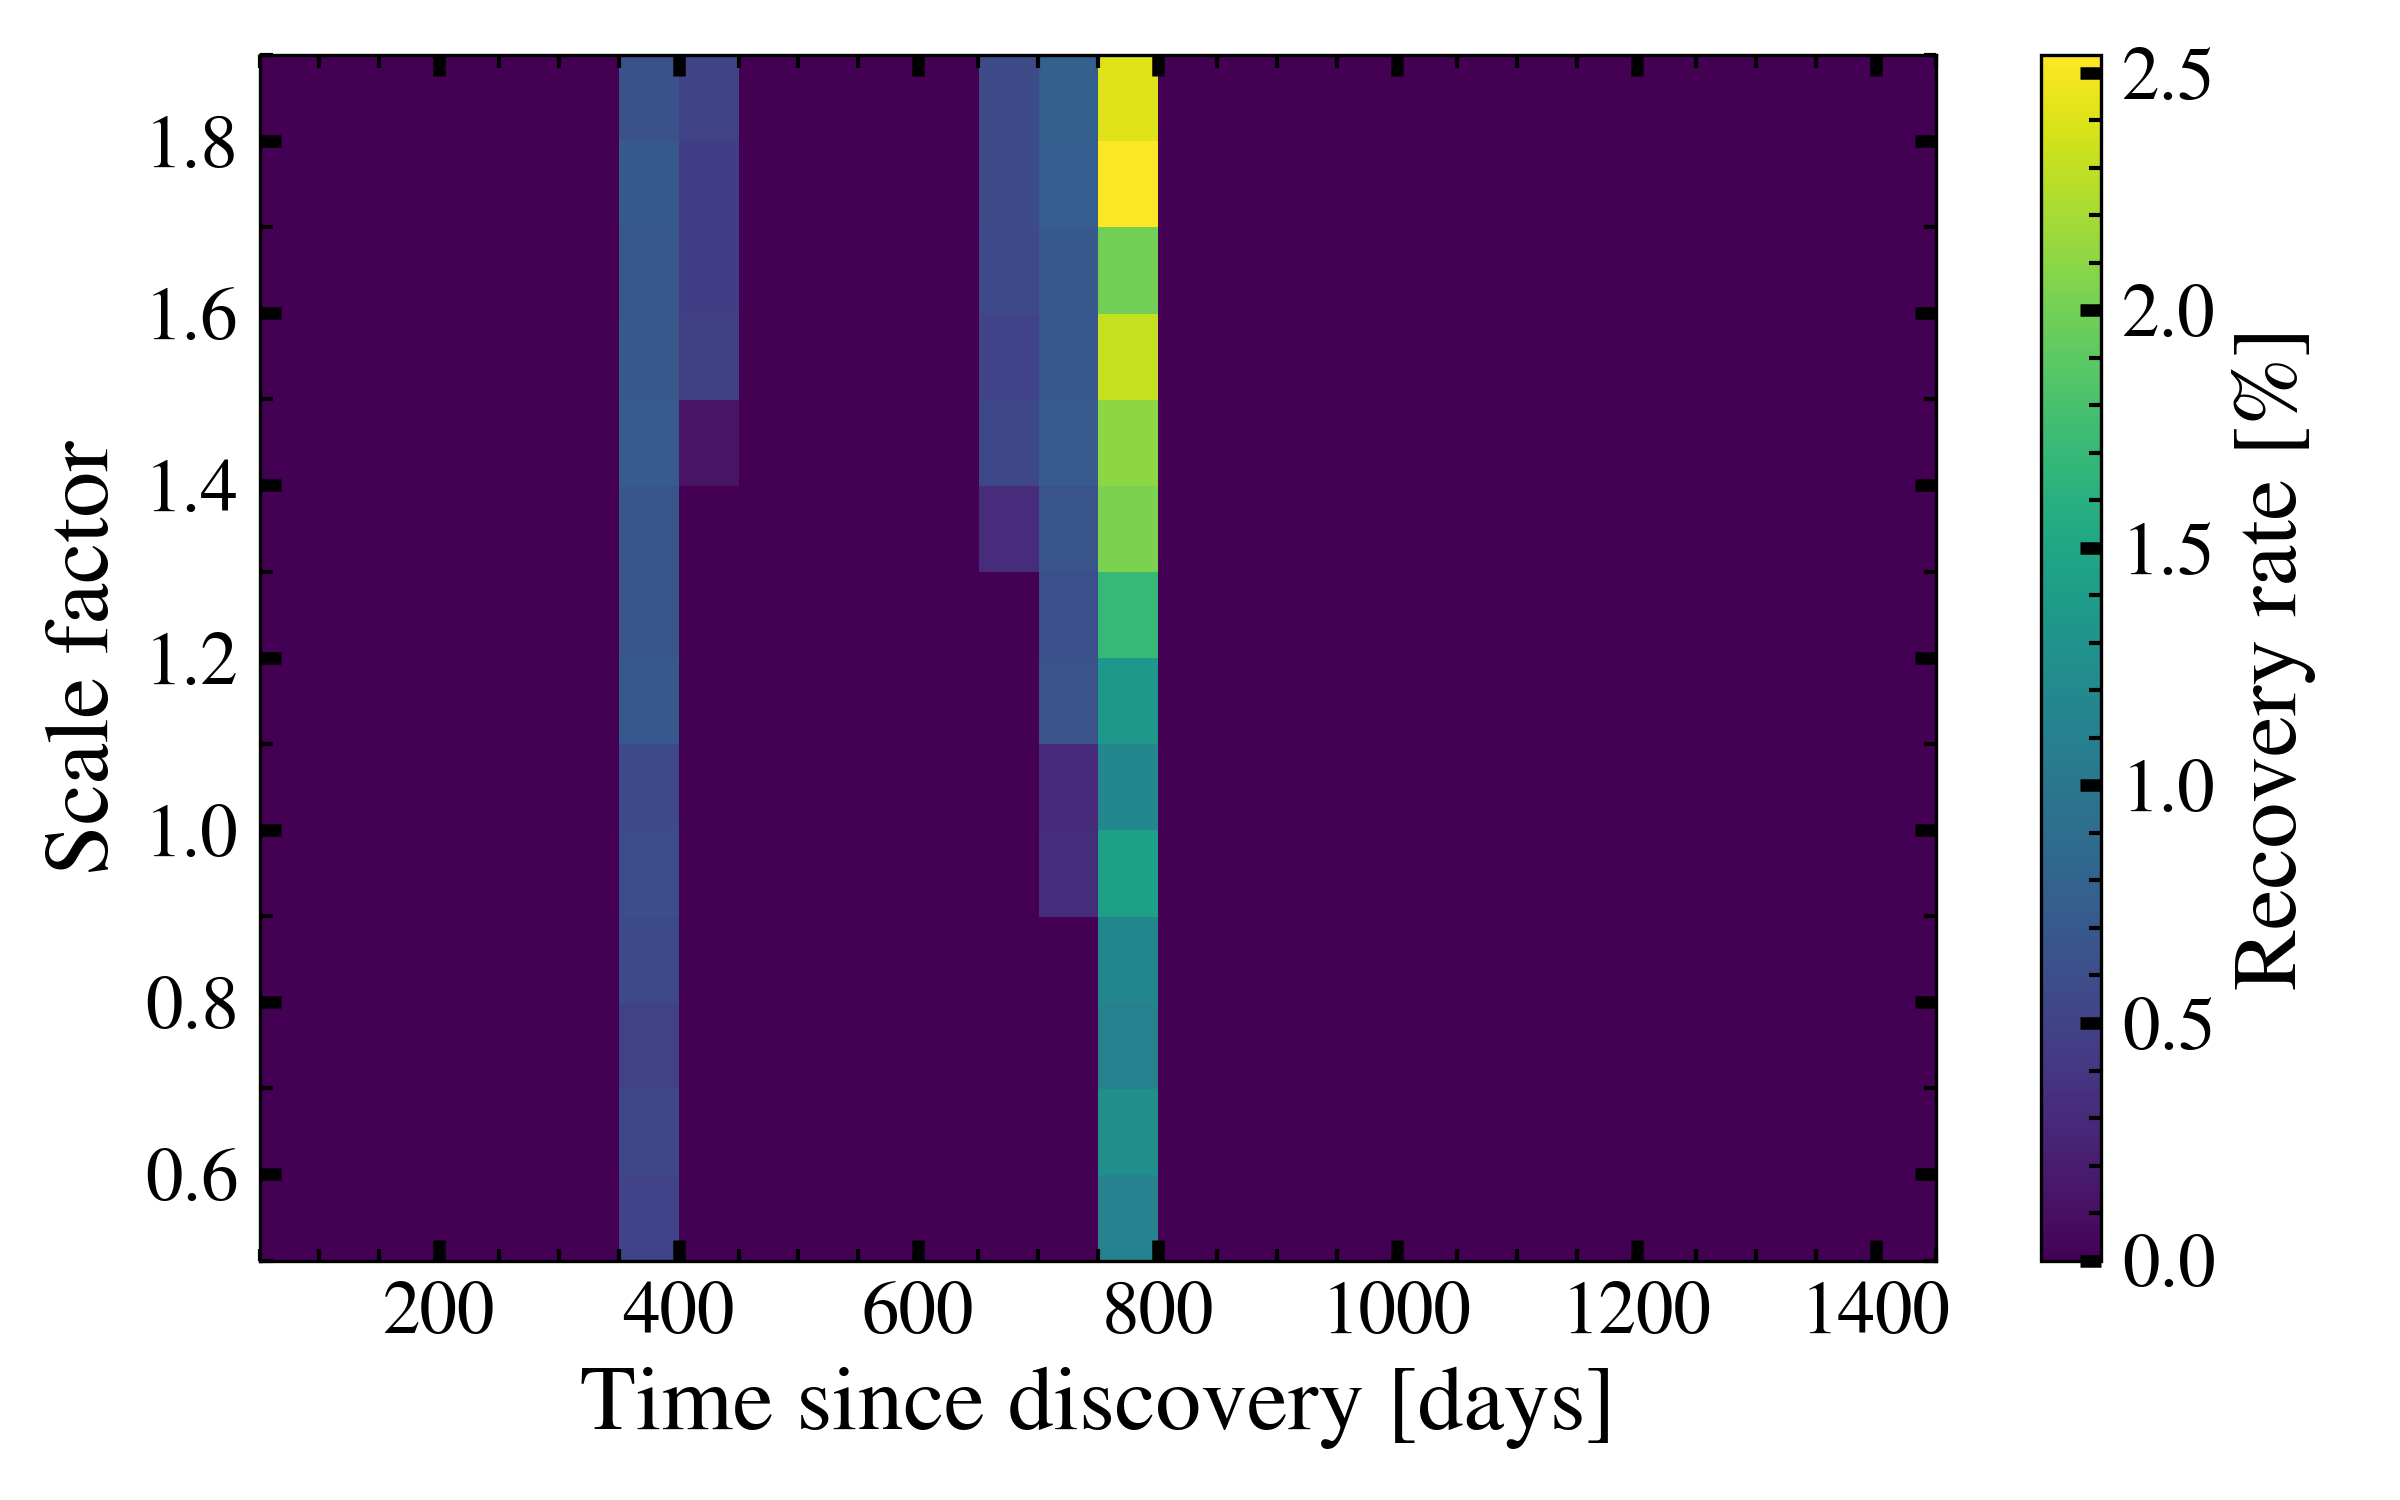
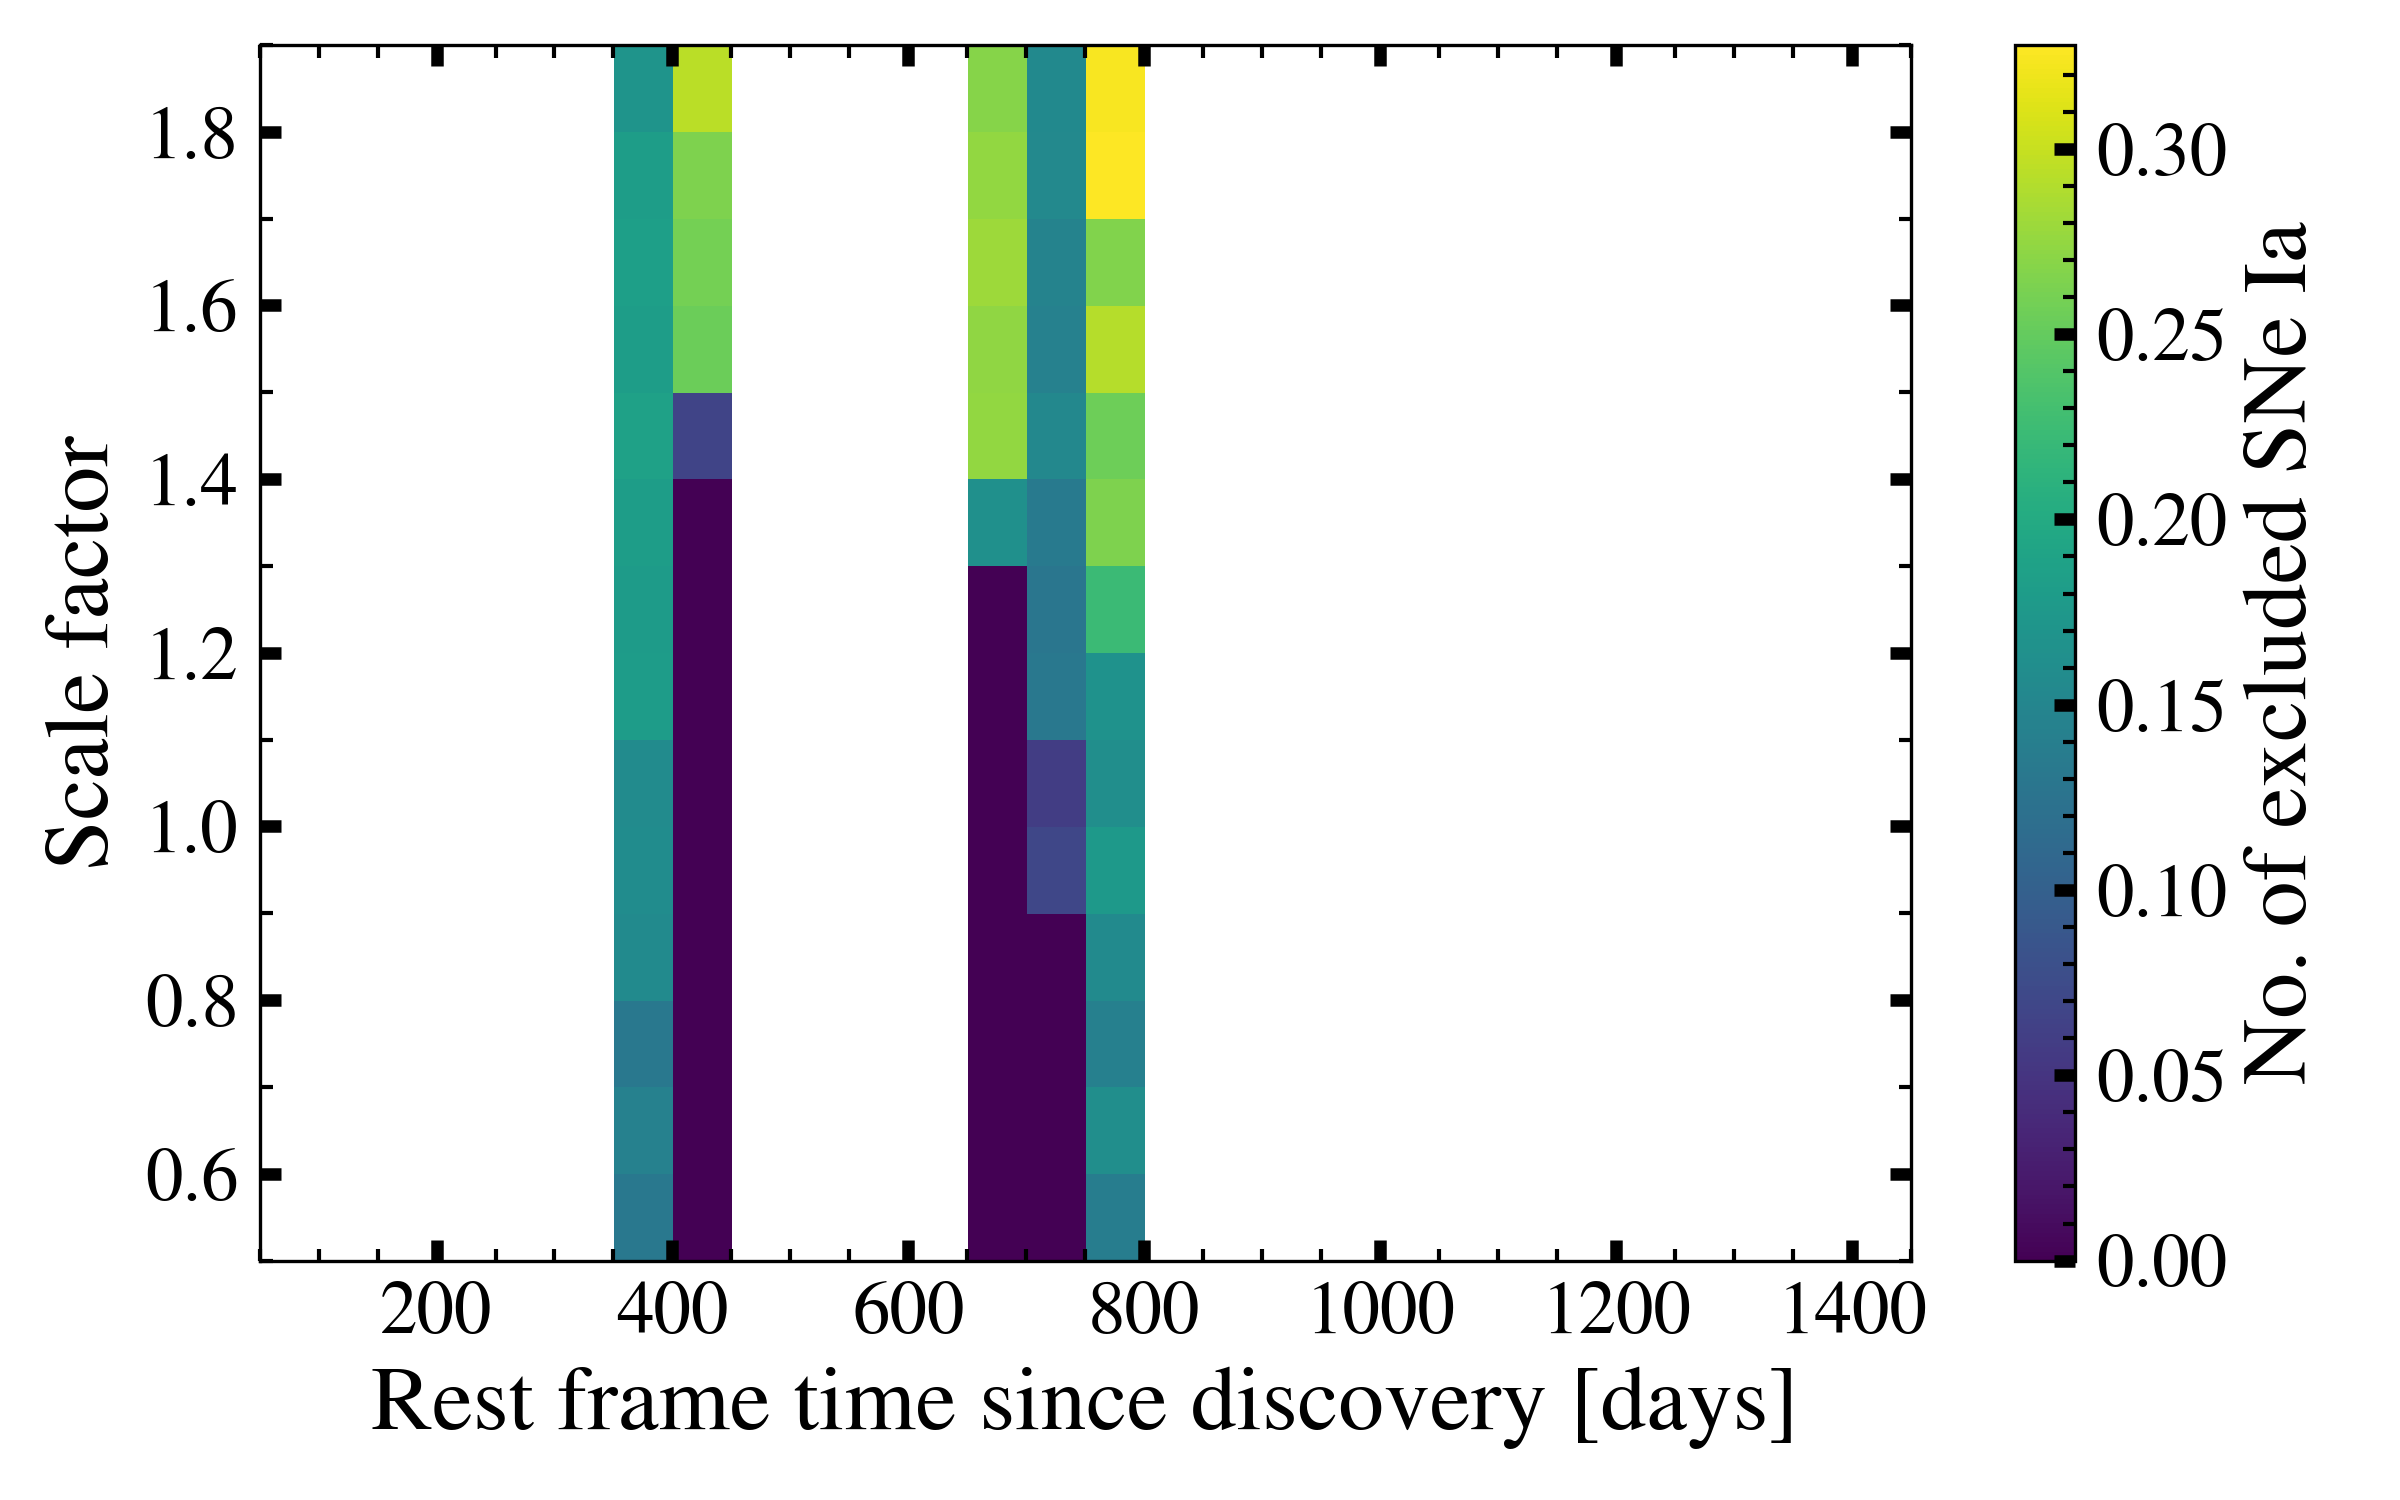
switched to counting nondetections

diff --git a/injection_recovery.py b/injection_recovery.py
@@ -2,6 +2,7 @@ from tqdm import tqdm
 import itertools
 from multiprocessing import Pool
 from functools import partial
+from functools import reduce
 import matplotlib.pyplot as plt
 from matplotlib.ticker import MultipleLocator
 from corner import corner
@@ -28,16 +29,16 @@ def main(iterations, overwrite=False, tstart_max=1000, scale_min=0.5,
     if overwrite or not output_file.is_file():
         recovered_times = run_ir(iterations, supernovae, 0, tstart_max, 
                 scale_min, scale_max, bin_width, bin_height, t_max, output_file)
-        rate_hist = get_recovery_rate(recovered_times, bin_width, t_max, 
+        count_hist = count_nondetections(recovered_times, bin_width, t_max, 
                 bin_height, scale_min, scale_max)
-        output_csv(rate_hist, output_file)
+        output_csv(count_hist, output_file)
     else:
-        rate_hist = pd.read_csv(output_file, index_col=0)
+        count_hist = pd.read_csv(output_file, index_col=0)
 
-    plot_recovery_rate(rate_hist, show=True)
+    plot_nondetections(count_hist, show=True)
 
 
-def plot_recovery_rate(rate_hist, show=False):
+def plot_nondetections(rate_hist, show=False):
     """Plot 2D histogram of recovery rate by time since discovery and scale factor."""
 
     # Flip y-axis
@@ -52,12 +53,12 @@ def plot_recovery_rate(rate_hist, show=False):
 
     # Plot
     fig, ax = plt.subplots()
-    im = ax.imshow(rate_hist*100, aspect='auto', origin='lower', extent=extent)
+    im = ax.imshow(rate_hist, aspect='auto', origin='lower', extent=extent)
     ax.xaxis.set_minor_locator(MultipleLocator(bin_width))
     ax.yaxis.set_minor_locator(MultipleLocator(bin_height))
-    ax.set_xlabel('Time since discovery [days]')
+    ax.set_xlabel('Rest frame time since discovery [days]')
     ax.set_ylabel('Scale factor')
-    plt.colorbar(im, label='Recovery rate [%]')
+    plt.colorbar(im, label='No. of excluded SNe Ia')
     fig.tight_layout()
     plt.savefig(Path('out/recovery.png'), dpi=300)
     if show:
@@ -66,14 +67,17 @@ def plot_recovery_rate(rate_hist, show=False):
         plt.close()
 
 
-def get_recovery_rate(recovered_times, bin_width, x_max, bin_height, y_min, y_max):
-    """Generate 2D histogram of recovery rate by time and scale factor
+def count_nondetections(recovered_times, bin_width, x_max, bin_height, y_min, y_max):
+    """Generate 2D histogram of nondetection counts by time and scale factor
     Inputs:
         recovered_times: list of dicts
         bin_width: bin width in heatmap plot, in days
+        x_max: max value on x-axis
         bin_height: bin height in heatmap plot, in scale factor fraction
+        y_min: minimum value on y-axis
+        y_max: max value on y-axis
     Output:
-        rate_hist: 2D histogram of recovery rates, DataFrame
+        count_sum: 2D histogram of nondetection counts
     """
     
     print('\nBinning recovery rates...')
@@ -81,28 +85,46 @@ def get_recovery_rate(recovered_times, bin_width, x_max, bin_height, y_min, y_ma
     recovered = []
     total = []
     for rec_dict in tqdm(recovered_times):
-        recovered += [[time, rec_dict['scale']] for time in rec_dict['recovered']]
-        total += [[time, rec_dict['scale']] for time in rec_dict['all']]
+        recovered += [[rec_dict['sn'], time, rec_dict['scale']] for time in rec_dict['recovered']]
+        total += [[rec_dict['sn'], time, rec_dict['scale']] for time in rec_dict['all']]
 
     recovered = np.array(recovered)
     total = np.array(total)
 
-    # 2D histogram
+    # Bin edges
     x_edges = np.arange(RECOV_MIN, x_max, bin_width)
     y_edges = np.arange(y_min, y_max, bin_height)
+
     # Dummy array if recovered is empty
     if recovered.shape == (0,):
-        recovered = np.array([[-1,-1]])
-    rec_hist = np.histogram2d(recovered[:,0], recovered[:,1], [x_edges, y_edges])[0]
-    total_hist = np.histogram2d(total[:,0], total[:,1], [x_edges, y_edges])[0]
-    # Calculate recovery rate
-    rate_hist = rec_hist / total_hist
-    # Transpose and convert to DataFrame with time increasing along the rows
-    # and scale height increasing down the columns. Column and index labels
-    # are the lower bound of each bin
-    rate_hist = pd.DataFrame(rate_hist.T, index=y_edges[:-1], columns=x_edges[:-1])
+        return pd.DataFrame(np.full((len(x_edges), len(y_edges)), 0), 
+                index=y_edges[:-1], columns=x_edges[:-1])
 
-    return rate_hist
+    # Count nondetections per supernova
+    counts = []
+    for sn_name in list(dict.fromkeys(recovered[:,0])):
+        # Select by sn name
+        sn_rec = recovered[recovered[:,0] == sn_name][:,1:].astype(float)
+        sn_tot = total[total[:,0] == sn_name][:,1:].astype(float)
+        # 2D histogram by t_delta_rest and scale
+        rec_hist = np.histogram2d(sn_rec[:,0], sn_rec[:,1], [x_edges, y_edges])[0]
+        tot_hist = np.histogram2d(sn_tot[:,0], sn_tot[:,1], [x_edges, y_edges])[0]
+        # Calculate recovery rate
+        rate_hist = rec_hist / tot_hist
+        # Transpose and convert to DataFrame with time increasing along the rows
+        # and scale height increasing down the columns. Column and index labels
+        # are the lower bound of each bin
+        rate_hist = pd.DataFrame(rate_hist.T, index=y_edges[:-1], columns=x_edges[:-1])
+        counts.append(rate_hist)
+
+    # Sum all histograms
+    count_sum = reduce(lambda x, y: x.add(y, fill_value=0), counts)
+    return count_sum
+
+
+def recovery_histogram(x_recovered, y_recovered, x_total, y_total, x_edges, y_edges):
+    """Generate histogram of recovery rate given x and y recovered/total values"""
+    pass
 
 
 def run_ir(iterations, supernovae, tstart_min, tstart_max, scale_min, scale_max,
@@ -141,21 +163,30 @@ def run_ir(iterations, supernovae, tstart_min, tstart_max, scale_min, scale_max,
             continue
 
         # Save to binary numpy file every 10 iterations (takes a long time)
-        if i % 10 == 0 and i >= 600:
+        if i % 10 == 0 and i != 0:
             print('Saving progress...')
             np.save(progress_file, np.array(recovered_times))
             print('Progress saved.')
 
         # Plot histogram every 50 iterations
         if i % 50 == 0 and i != 0:
-            rate_hist = get_recovery_rate(recovered_times, bin_width, t_max, 
+            rate_hist = count_nondetections(recovered_times, bin_width, t_max, 
                     bin_height, scale_min, scale_max)
             output_csv(rate_hist, output_file)
-            plot_recovery_rate(rate_hist, show=False)
+            plot_nondetections(rate_hist, show=False)
 
         # Ignore if light curve file doesn't exist
         lc_file = LC_DIR / sn2fname(sn_name, band)
         if not lc_file.is_file():
+            print('\nNo light curve file found for %s - %s [%s/%s]' % (sn_name, band, i+1, len(supernovae)))
+            recovered_times.append({
+                'sn': sn_name,
+                'band': band,
+                'tstart': -1,
+                'scale': -1,
+                'recovered': [],
+                'all': []
+            })
             continue
 
         try:
